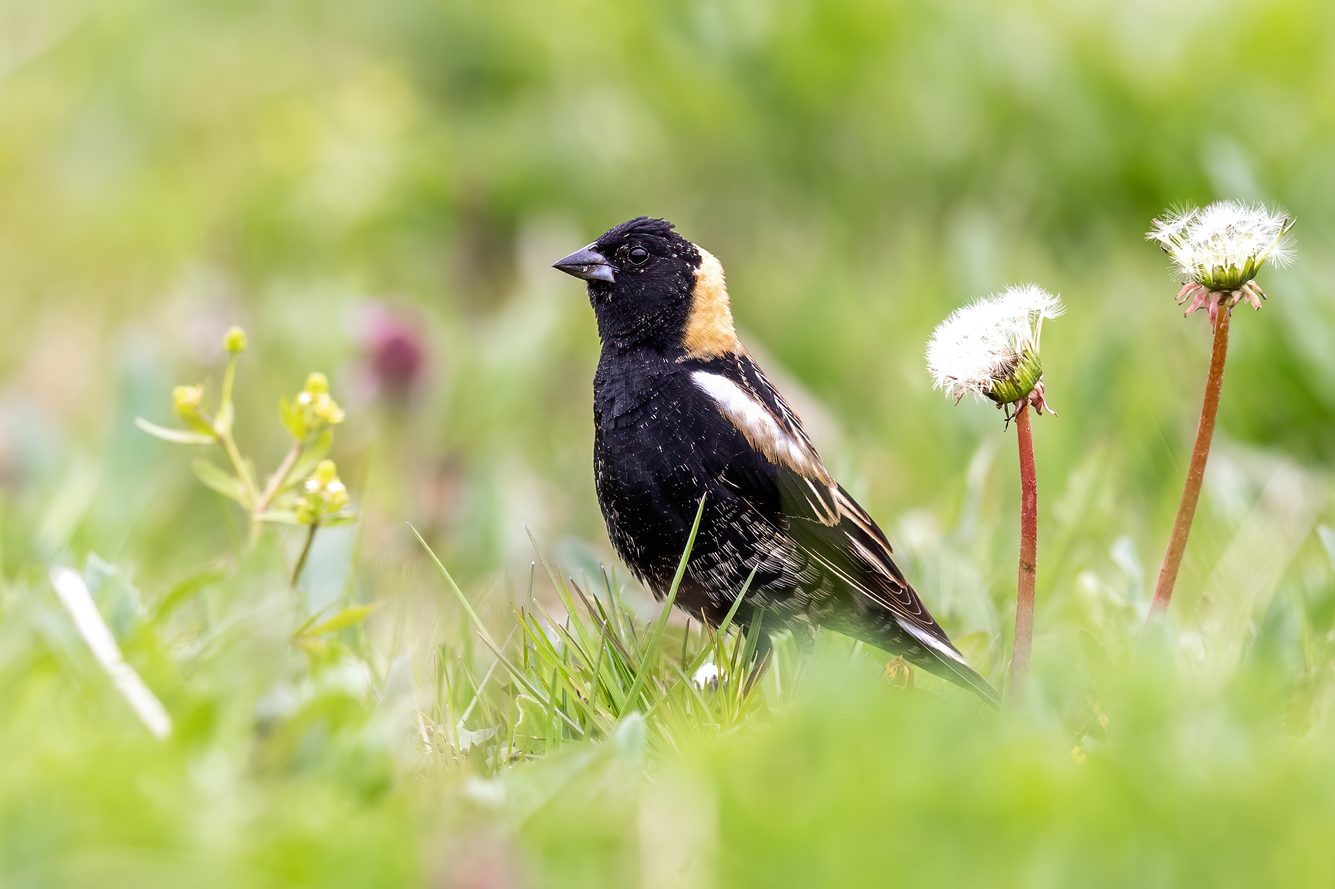
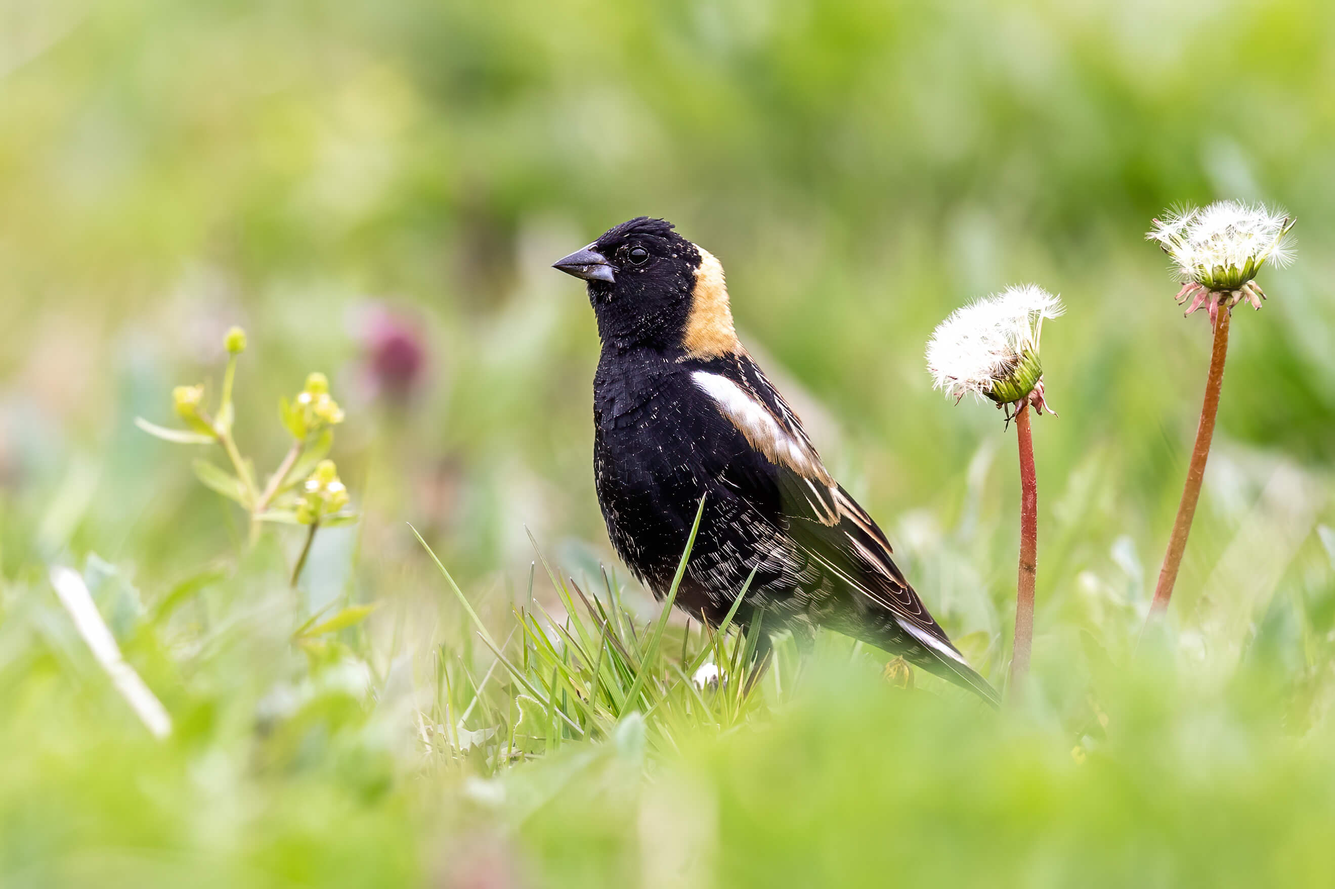
optimize images

diff --git a/src/components/LeafletMap.vue b/src/components/LeafletMap.vue
@@ -47,7 +47,7 @@
             <div class="ebird-note">Polygons reflect modeled trends and not actual bird locations.</div>
           </div>
           <div v-else-if="layerType == 'range'">
-            <div class="legend-title">Species range</div>
+            <div class="legend-title">Species</div>
             <div style="margin-top: 5px">
               <span class="circle-legend-before"></span> Maximum historical range
             </div>
@@ -506,7 +506,7 @@ export default {
           }).addTo(this.map);
 
           // Create a popup
-        var popup = L.popup()
+        var popup = L.popup({ offset: L.point(30, 20) })
             .setLatLng([44.5123, -111.2998]) // Approximate coordinates for Last Chance, Idaho
             .setContent("<p style='font-size: 14px'>This doe, known as 255, has made the longest recorded Mule Deer migration. Each year, she <b>negotiated an average of 171 fences</b>, along with roads, rivers, and mountains, as she journeyed between her summer range in the meadows of Greater Yellowstone and her winter home in the sagebrush steppe of the Red Desert of Wyoming.</p>")
             .openOn(this.map);

diff --git a/src/views/HomeView.vue b/src/views/HomeView.vue
@@ -2,7 +2,7 @@
   <div>
   <div id="banner">
     <div id="mobile-header-image" v-if="isMobile">
-      <img src="/images/Northern-Bobwhite/489539801_ML_Andrew_Simon.jpeg" alt="">
+      <img src="/images/Northern-Bobwhite/489539801_ML_Andrew_Simon.jpg" alt="">
     </div>
     <div class="left-content">
       <div class="title-container">
@@ -29,7 +29,7 @@
           The loss of America’s grasslands has led to alarming declines in the wildlife we all care about. If these iconic landscapes continue to disappear, we risk losing the animals that define our communities. These losses show that the places where people live are losing soil productivity and water, and are less able to withstand extreme heat and storms.
         </p>
         <p>
-          The slow collapse of this system is underway. 
+          The collapse of this system is underway. 
         </p>
         <p>
           The North American Grasslands Conservation Act will help reverse the decline of America's prairies, savannas, glades, and sagebrush – in our own backyards.

diff --git a/src/style.css b/src/style.css
@@ -23,7 +23,7 @@ html {
 
 a {
   font-weight: 500;
-  color: #6a7935;
+  color: #414920;
   text-decoration: inherit;
 }
 a:hover {
